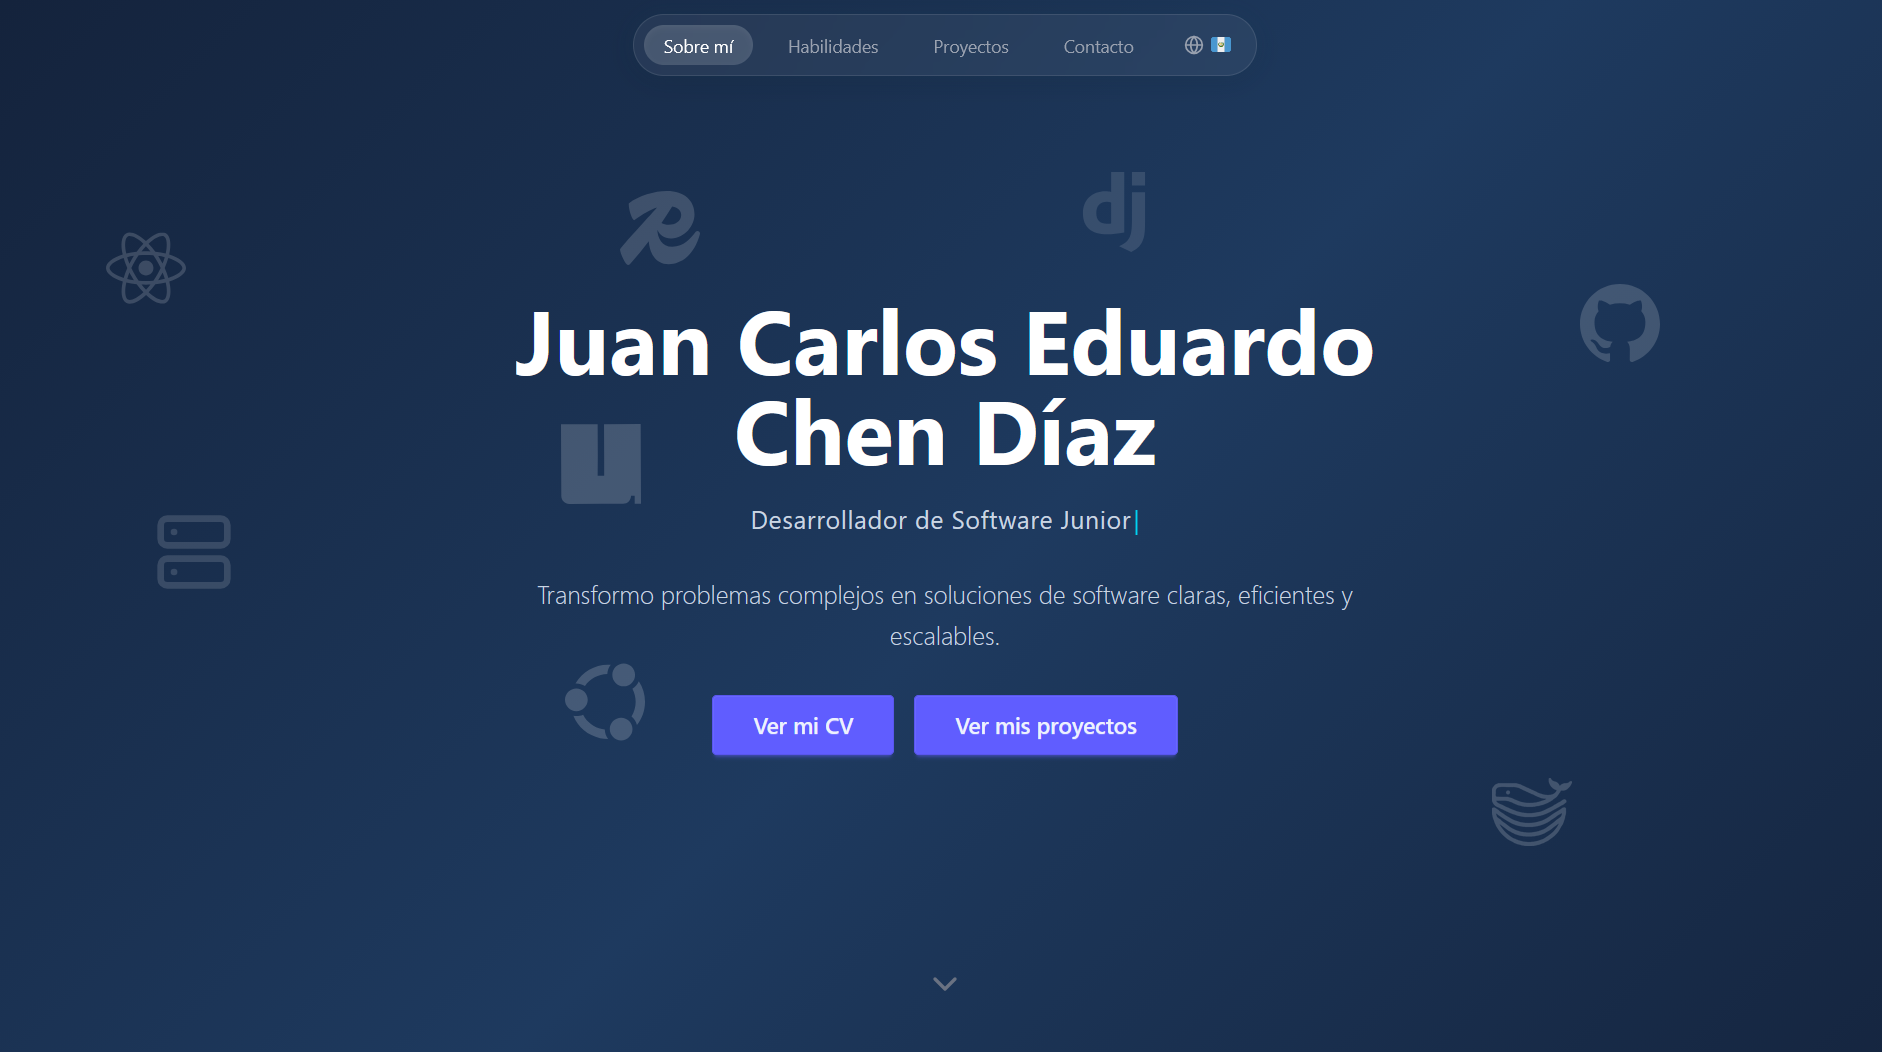
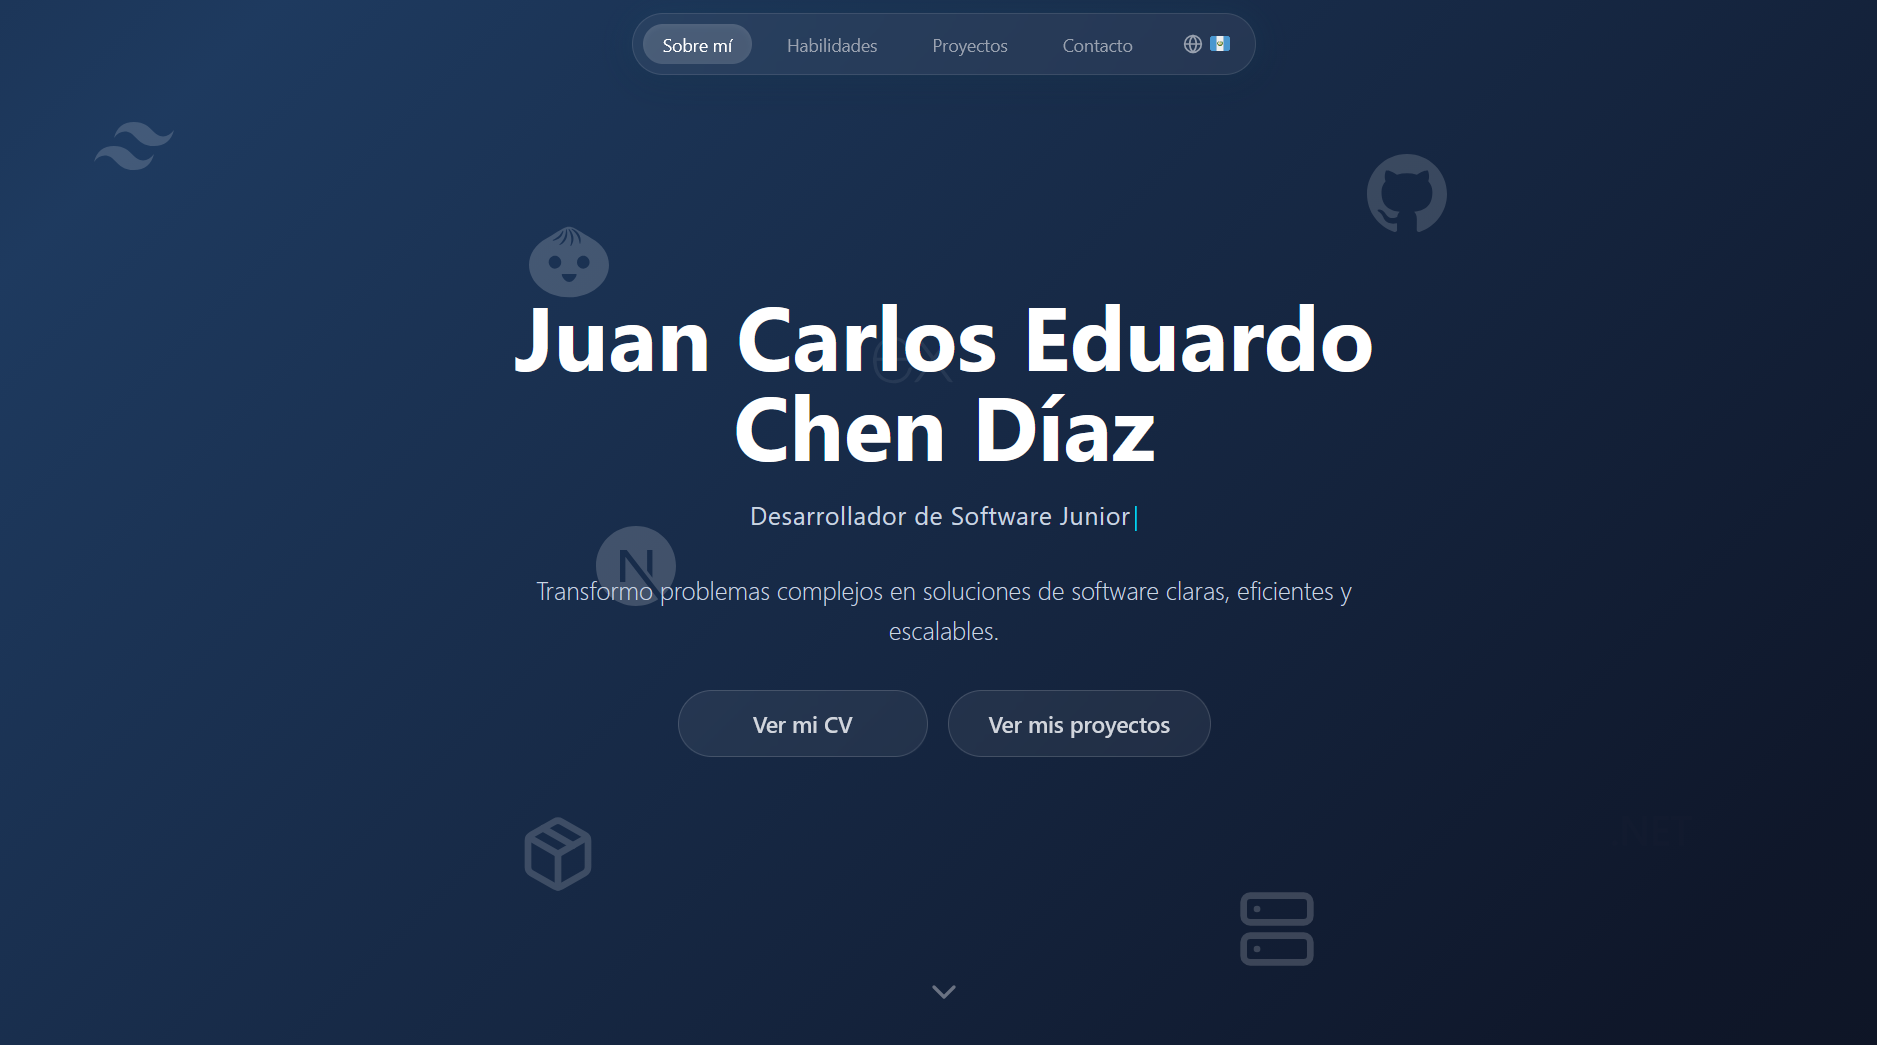
fix: mejora en las animaciones

diff --git a/portafolio-jcd/src/components/Skills.tsx b/portafolio-jcd/src/components/Skills.tsx
@@ -6,9 +6,9 @@ import { useTranslation } from 'react-i18next';
 import { ChevronLeft, ChevronRight } from 'lucide-react';
 
 const Skills = () => {
-  const sectionRef = useScrollReveal();
-  const { t } = useTranslation();
   const [activeIdx, setActiveIdx] = useState(0);
+  const sectionRef = useScrollReveal('[data-reveal]', 0.15, [activeIdx]);
+  const { t } = useTranslation();
   const activeCategory = skillsData[activeIdx];
 
   return (
@@ -66,17 +66,15 @@ const Skills = () => {
           </div>
         </div>
 
-        {/* Active category content — no data-reveal to avoid opacity conflict */}
-        <div
-          key={activeIdx}
-          className="animate-[fadeIn_0.35s_ease-out_forwards]"
-        >
-          <div className="grid grid-cols-2 sm:grid-cols-3 md:grid-cols-4 lg:grid-cols-5 gap-4">
-            {activeCategory.items.map((tech) => (
-              <div
-                key={tech.name}
-                className="bg-gray-800 border border-gray-700 rounded-xl p-4 flex flex-col items-center justify-center gap-3 hover:border-primary hover:shadow-lg hover:shadow-primary/20 transition-all duration-300 group"
-              >
+        {/* Active category content */}
+        <div key={activeIdx} className="grid grid-cols-2 sm:grid-cols-3 md:grid-cols-4 lg:grid-cols-5 gap-4">
+          {activeCategory.items.map((tech, i) => (
+            <div
+              key={tech.name}
+              data-reveal
+              style={{ transitionDelay: `${i * 0.05}s` }}
+            >
+              <div className="bg-gray-800 border border-gray-700 rounded-xl p-4 flex flex-col items-center justify-center gap-3 hover:border-primary hover:shadow-lg hover:shadow-primary/20 transition-all duration-300 group h-full">
                 <div className="text-white group-hover:text-primary transition-colors duration-300">
                   {renderIcon(tech.icon)}
                 </div>
@@ -84,8 +82,8 @@ const Skills = () => {
                   {t(`skills.items.${tech.name}`, tech.name)}
                 </span>
               </div>
-            ))}
-          </div>
+            </div>
+          ))}
         </div>
       </div>
     </section>

diff --git a/portafolio-jcd/src/hooks/useScrollReveal.ts b/portafolio-jcd/src/hooks/useScrollReveal.ts
@@ -2,14 +2,16 @@ import { useEffect, useRef } from 'react';
 
 /**
  * Hook that adds a 'scroll-revealed' class to child elements matching `selector`
- * when they enter the viewport. Each element animates only once per page load.
+ * when they enter the viewport.
  *
  * @param selector - CSS selector for elements to observe (default: '[data-reveal]')
  * @param threshold - Visibility threshold to trigger (0–1, default 0.15)
+ * @param deps - Optional dependency list to re-run observation when content updates
  */
 export const useScrollReveal = (
   selector = '[data-reveal]',
   threshold = 0.15,
+  deps: React.DependencyList = [],
 ) => {
   const containerRef = useRef<HTMLElement>(null);
 
@@ -18,23 +20,26 @@ export const useScrollReveal = (
     if (!container) return;
 
     const elements = container.querySelectorAll<HTMLElement>(selector);
-    if (elements.length === 0) return;
+    const unrevealed = Array.from(elements).filter(
+      (el) => !el.classList.contains('scroll-revealed'),
+    );
+    if (unrevealed.length === 0) return;
 
     const observer = new IntersectionObserver(
       (entries) => {
         for (const entry of entries) {
           if (entry.isIntersecting) {
             (entry.target as HTMLElement).classList.add('scroll-revealed');
-            observer.unobserve(entry.target); // only once
+            observer.unobserve(entry.target);
           }
         }
       },
       { threshold, rootMargin: '0px 0px -40px 0px' },
     );
 
-    elements.forEach((el) => observer.observe(el));
+    unrevealed.forEach((el) => observer.observe(el));
     return () => observer.disconnect();
-  }, [selector, threshold]);
+  }, [selector, threshold, ...deps]);
 
   return containerRef;
 };

diff --git a/portafolio-jcd/src/components/Projects.tsx b/portafolio-jcd/src/components/Projects.tsx
@@ -8,9 +8,9 @@ import { ChevronLeft, ChevronRight } from 'lucide-react';
 const PER_PAGE = 4;
 
 const Projects = () => {
-  const sectionRef = useScrollReveal();
-  const { t } = useTranslation();
   const [page, setPage] = useState(0);
+  const sectionRef = useScrollReveal('[data-reveal]', 0.15, [page]);
+  const { t } = useTranslation();
 
   const totalPages = Math.ceil(projectsData.length / PER_PAGE);
   const paged = projectsData.slice(page * PER_PAGE, (page + 1) * PER_PAGE);
@@ -34,11 +34,16 @@ const Projects = () => {
 
         <div
           key={page}
-          data-reveal data-reveal-delay="3"
-          className="grid md:grid-cols-2 gap-8 animate-[fadeIn_0.35s_ease-out_forwards]"
+          className="grid md:grid-cols-2 gap-8"
         >
-          {paged.map((project) => (
-            <ProjectCard key={project.id} project={project} />
+          {paged.map((project, i) => (
+            <div
+              key={project.id}
+              data-reveal
+              style={{ transitionDelay: `${i * 0.1}s` }}
+            >
+              <ProjectCard project={project} />
+            </div>
           ))}
         </div>
 

diff --git a/portafolio-jcd/src/index.css b/portafolio-jcd/src/index.css
@@ -235,25 +235,6 @@ html {
     transform: none;
     transition: none;
   }
-
-  .animate-\[fadeIn_0\.35s_ease-out_forwards\] {
-    animation: none;
-    opacity: 1;
-    transform: none;
-  }
-}
-
-/* Fade-in for skill tab content transitions */
-@keyframes fadeIn {
-  from {
-    opacity: 0;
-    transform: translateY(8px);
-  }
-
-  to {
-    opacity: 1;
-    transform: translateY(0);
-  }
 }
 
 /* Hide scrollbar on tab bar while keeping scroll */
